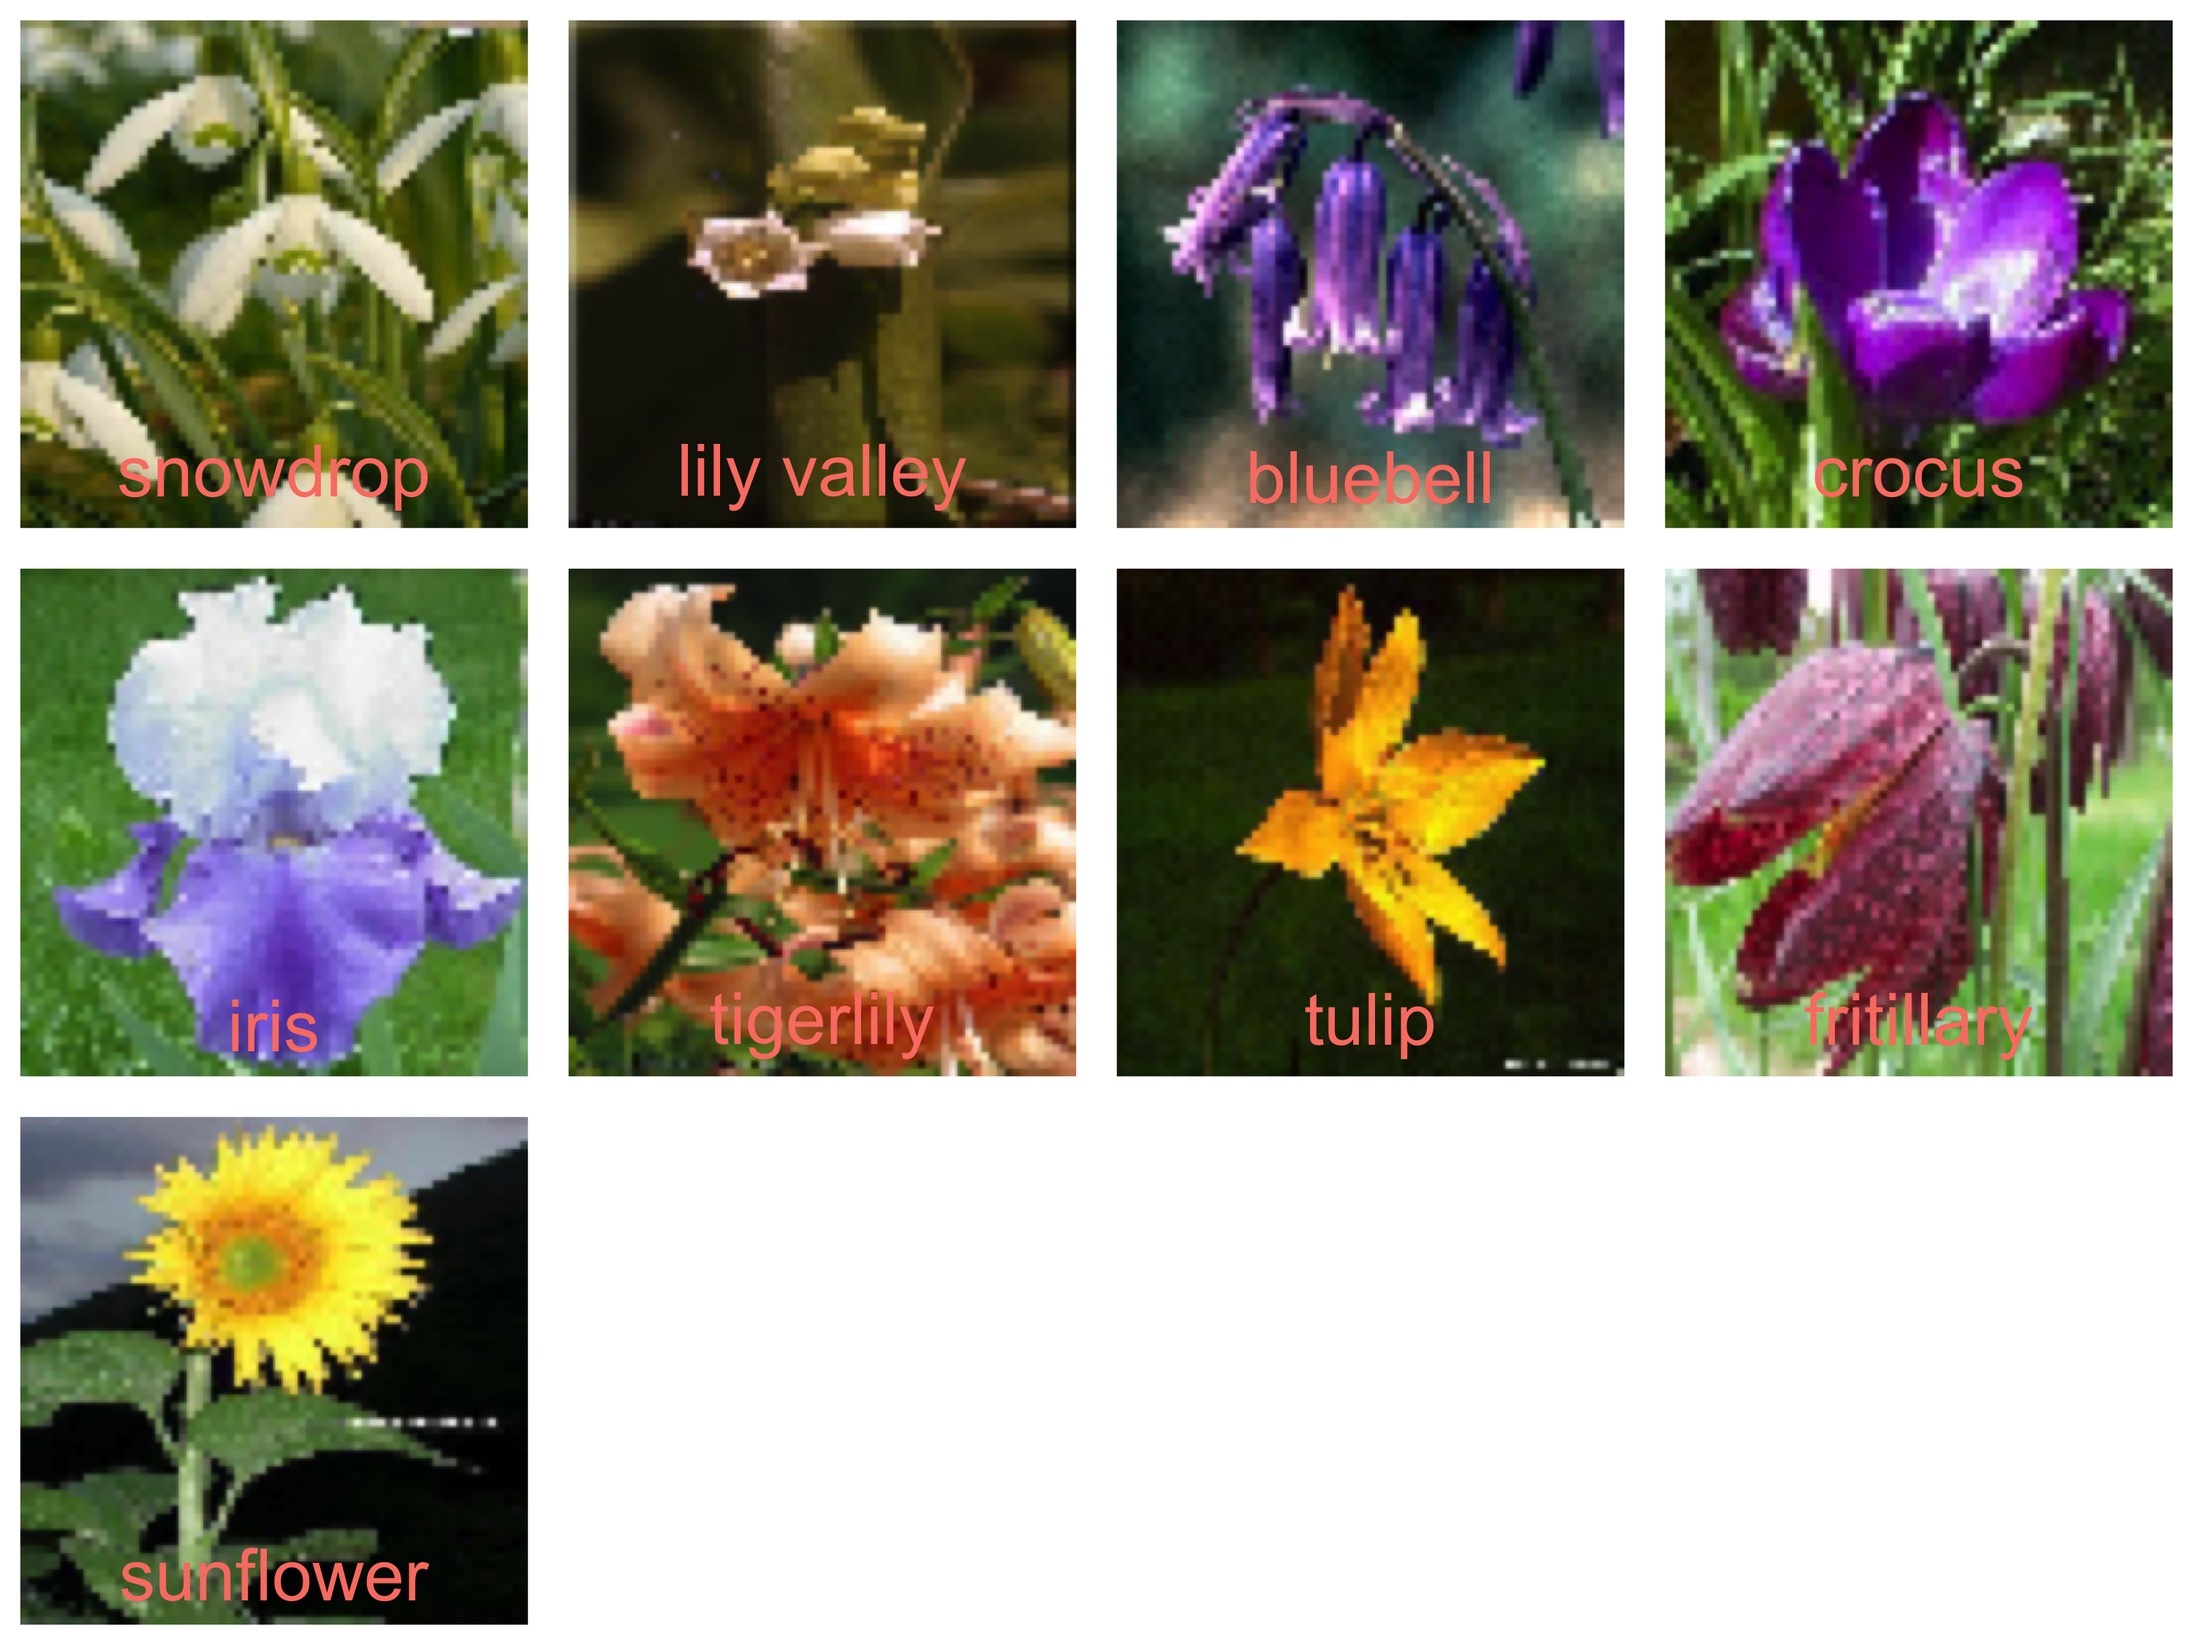
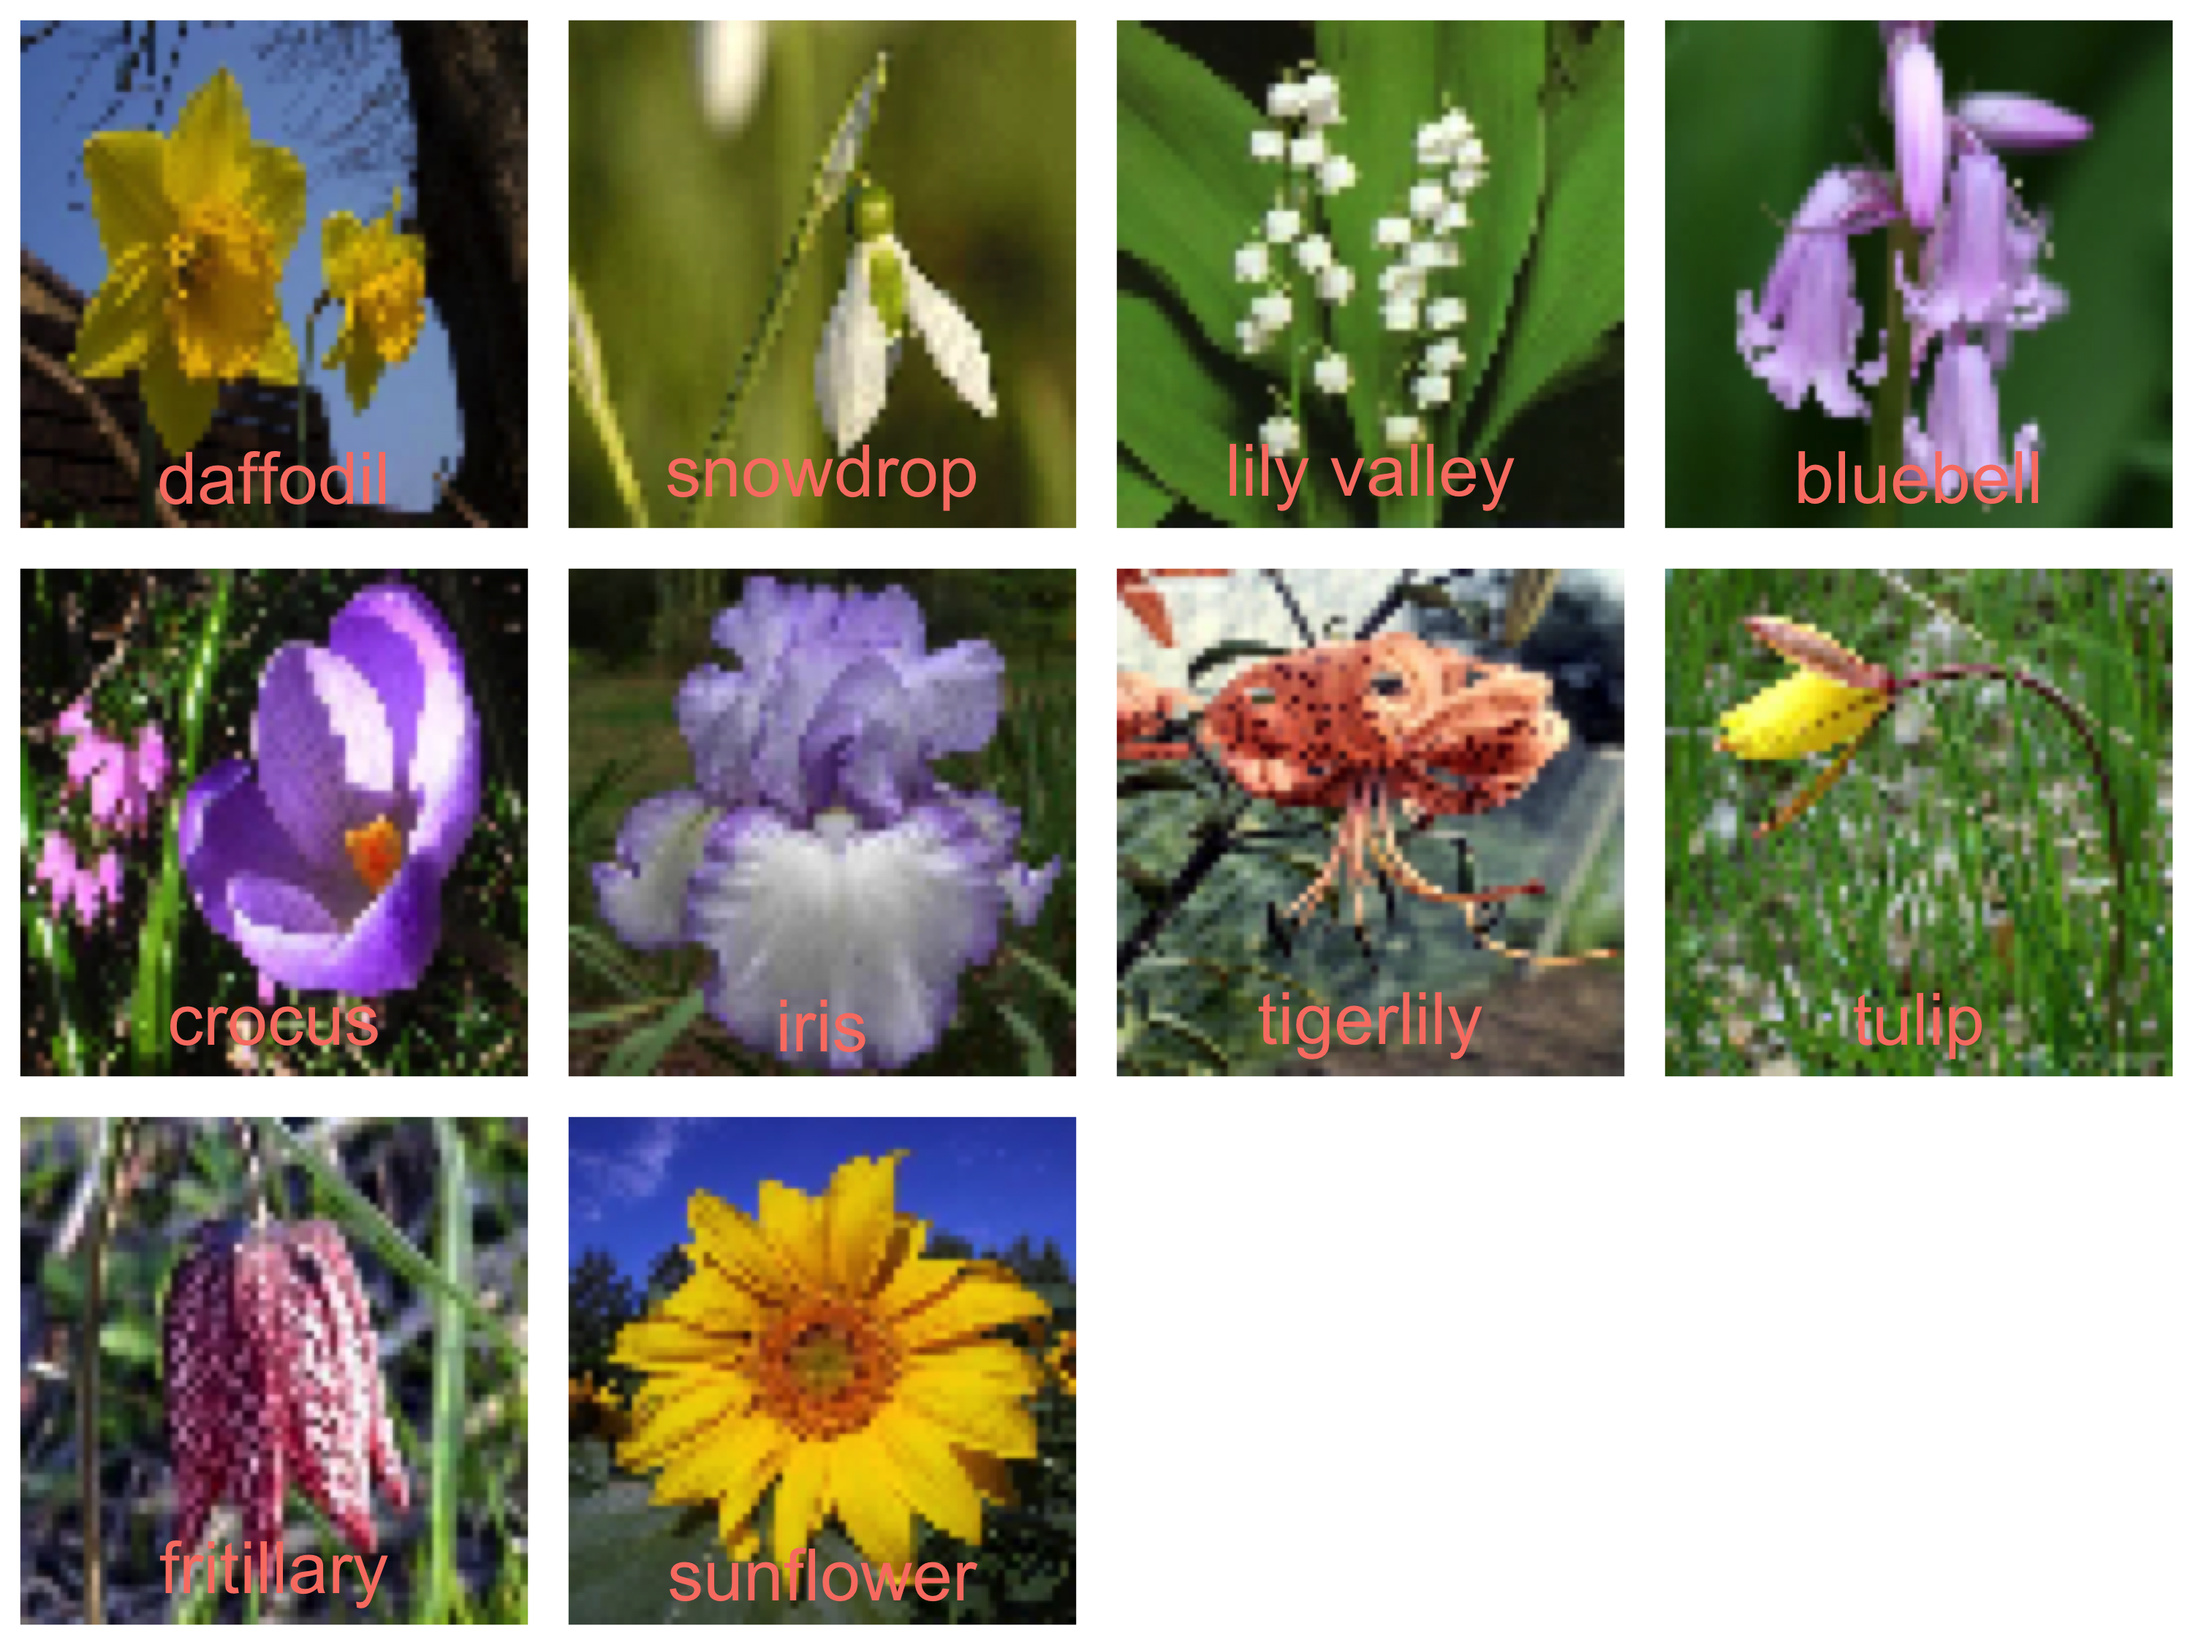
fix labels

diff --git a/_posts/2017-10-31-class18.md b/_posts/2017-10-31-class18.md
@@ -100,18 +100,12 @@ now look at a representative from all 10 classes of flowers:
 par(mar = c(0,0,0,0))
 par(mfrow = c(3, 4))
 set.seed(1)
-for (i in 1:10) {
+for (i in 0:9) {
   plot(0,0,xlim=c(0,1),ylim=c(0,1),axes= FALSE,type = "n")
-  i <- sample(which(flowers$class == i), 1)
-  rasterImage(x64[i,,,],0,0,1,1)
-  text(0.5, 0.1, flowers$class_name[i], cex = 3, col = "salmon")
+  j <- sample(which(flowers$class == i), 1)
+  rasterImage(x64[j,,,],0,0,1,1)
+  text(0.5, 0.1, flowers$class_name[j], cex = 3, col = "salmon")
 }
-{% endhighlight %}
-
-
-
-{% highlight text %}
-## Error in sample.int(length(x), size, replace, prob): invalid first argument
 {% endhighlight %}
 
 <img src="../assets/2017-10-31-class18/unnamed-chunk-4-1.png" title="plot of chunk unnamed-chunk-4" alt="plot of chunk unnamed-chunk-4" width="100%" />
@@ -154,7 +148,7 @@ dim(beta[apply(beta != 0, 1, any),])
 
 
 {% highlight text %}
-## [1] 420  10
+## [1] 359  10
 {% endhighlight %}
 
 The resulting model, even at `lambda.1se`, has over 300
@@ -172,7 +166,7 @@ tapply(pred == y, flowers$train_id, mean)
 
 {% highlight text %}
 ##  train  valid 
-## 0.9675 0.3600
+## 0.9325 0.3600
 {% endhighlight %}
 
 There are ten classes here, so a 36% classification rate is
@@ -353,59 +347,59 @@ as.matrix(beta)
 
 {% highlight text %}
 ##                  daffodil      snowdrop   lily valley      bluebell
-## (intercept)  0.2796331244 -5.816809e-02  1.1316920738  0.2140023805
-## #000000      0.0000000000  2.937234e-04  0.0001593203 -0.0001354286
-## #333333      0.0012692159  6.052404e-05 -0.0013234196 -0.0013497907
-## #666666      0.0000000000  0.000000e+00  0.0003042887  0.0000000000
-## #999999      0.0000000000  1.064322e-03  0.0000000000  0.0000000000
-## #CCCCCC     -0.0023649339  1.174579e-03  0.0000000000  0.0000000000
-## #FFFFFF     -0.0015795493  1.490721e-03  0.0000000000  0.0000000000
-## #FF0000      0.0000000000  0.000000e+00  0.0000000000  0.0000000000
-## #FF9900      0.0006601070  0.000000e+00 -0.0014104745 -0.0006043152
-## #CCFF00      0.0000000000  0.000000e+00  0.0000000000  0.0000000000
-## #33FF00     -0.0001201626 -3.588591e-04  0.0003663994  0.0000000000
-## #00FF66      0.0000000000  0.000000e+00  0.0000000000  0.0001616675
-## #00FFFF      0.0004796535  5.279409e-04  0.0007403431  0.0000000000
-## #0066FF      0.0001633432  0.000000e+00 -0.0010882711  0.0000000000
-## #3300FF      0.0000000000  0.000000e+00  0.0000000000  0.0034480163
-## #CC00FF      0.0000000000  0.000000e+00  0.0000000000  0.0022829739
-## #FF0099      0.0000000000  0.000000e+00  0.0000000000  0.0000000000
+## (intercept)  1.770461e-01 -1.489402e-02  1.119792e+00  0.2156050038
+## #000000      0.000000e+00  2.393722e-04  9.244839e-05 -0.0001356352
+## #333333      1.292036e-03  3.897117e-05 -8.897221e-04 -0.0009465659
+## #666666      0.000000e+00  0.000000e+00  1.657749e-04  0.0000000000
+## #999999      0.000000e+00  1.087899e-03  0.000000e+00  0.0000000000
+## #CCCCCC     -1.788616e-03  1.068943e-03  0.000000e+00  0.0000000000
+## #FFFFFF     -1.343429e-03  1.447499e-03  0.000000e+00  0.0000000000
+## #FF0000      0.000000e+00  0.000000e+00  0.000000e+00  0.0000000000
+## #FF9900      6.590324e-04  0.000000e+00 -1.317518e-03 -0.0005517535
+## #CCFF00      0.000000e+00  0.000000e+00  0.000000e+00  0.0000000000
+## #33FF00     -3.320615e-05 -2.903422e-04  3.651323e-04  0.0000000000
+## #00FF66      0.000000e+00  0.000000e+00  0.000000e+00  0.0001266336
+## #00FFFF      2.898429e-04  3.269193e-04  4.960677e-04  0.0000000000
+## #0066FF      1.597266e-04  0.000000e+00 -7.731947e-04  0.0000000000
+## #3300FF      0.000000e+00  0.000000e+00  0.000000e+00  0.0031461614
+## #CC00FF      0.000000e+00  0.000000e+00  0.000000e+00  0.0020355444
+## #FF0099      0.000000e+00  0.000000e+00  0.000000e+00  0.0000000000
 ##                    crocus          iris     tigerlily         tulip
-## (intercept)  2.534323e-01  0.1225246511 -0.2400797714  1.227285e+00
-## #000000      6.919519e-05 -0.0003478280  0.0000000000  2.724942e-04
-## #333333      1.950466e-04 -0.0046562081  0.0000000000  0.000000e+00
-## #666666      0.000000e+00 -0.0003495291  0.0000000000  8.643019e-05
-## #999999      8.458367e-04 -0.0003166433  0.0000000000  0.000000e+00
-## #CCCCCC      2.984717e-04  0.0017589213  0.0000000000 -5.265113e-03
-## #FFFFFF      8.821620e-04 -0.0002133868  0.0000000000 -1.979119e-03
-## #FF0000      0.000000e+00  0.0014026249  0.0034640029  0.000000e+00
-## #FF9900      0.000000e+00  0.0000000000  0.0000000000  3.676649e-07
-## #CCFF00     -2.786730e-04  0.0002369043  0.0000000000  0.000000e+00
-## #33FF00     -5.573924e-04  0.0000000000  0.0000000000  0.000000e+00
-## #00FF66     -1.364195e-03  0.0000000000  0.0000000000  0.000000e+00
-## #00FFFF     -3.298905e-04  0.0000000000  0.0000000000 -8.335655e-04
-## #0066FF     -4.547219e-04 -0.0001783404  0.0004213845 -6.850967e-04
-## #3300FF      2.434640e-03  0.0025778216  0.0000000000  0.000000e+00
-## #CC00FF      2.967764e-03  0.0015773924  0.0000000000  0.000000e+00
-## #FF0099      0.000000e+00  0.0000000000  0.0000000000  0.000000e+00
+## (intercept)  2.056405e-01  1.424085e-01 -0.2184719713  1.1743047065
+## #000000      3.070082e-05 -3.567885e-04  0.0000000000  0.0002189562
+## #333333      2.607157e-04 -3.664088e-03  0.0000000000  0.0000000000
+## #666666      0.000000e+00 -3.545157e-04  0.0000000000  0.0000000000
+## #999999      9.013507e-04 -8.905244e-05  0.0000000000  0.0000000000
+## #CCCCCC      1.965885e-04  1.602054e-03  0.0000000000 -0.0042881467
+## #FFFFFF      7.882126e-04  0.000000e+00  0.0000000000 -0.0017858055
+## #FF0000      0.000000e+00  1.090692e-03  0.0032937491  0.0000000000
+## #FF9900      0.000000e+00  0.000000e+00  0.0000000000  0.0000000000
+## #CCFF00     -2.136064e-04  2.265112e-04  0.0000000000  0.0000000000
+## #33FF00     -4.583371e-04  0.000000e+00  0.0000000000  0.0000000000
+## #00FF66     -1.076706e-03  0.000000e+00  0.0000000000  0.0000000000
+## #00FFFF     -2.047303e-04  0.000000e+00  0.0000000000 -0.0007464020
+## #0066FF     -2.904192e-04 -7.562564e-05  0.0004041505 -0.0005402705
+## #3300FF      2.140144e-03  2.184012e-03  0.0000000000  0.0000000000
+## #CC00FF      2.745270e-03  1.326558e-03  0.0000000000  0.0000000000
+## #FF0099      0.000000e+00  0.000000e+00  0.0000000000  0.0000000000
 ##               fritillary     sunflower
-## (intercept) -1.510376508 -1.4199450355
+## (intercept) -1.398503900 -1.4029265754
 ## #000000      0.000000000  0.0000000000
-## #333333      0.000000000 -0.0007800077
+## #333333      0.000000000 -0.0005368208
 ## #666666      0.000000000  0.0000000000
 ## #999999      0.000000000  0.0000000000
-## #CCCCCC      0.000000000 -0.0009328323
+## #CCCCCC      0.000000000 -0.0004132294
 ## #FFFFFF      0.000000000  0.0000000000
-## #FF0000      0.002638049  0.0000000000
-## #FF9900      0.000000000  0.0016999672
+## #FF0000      0.002407056  0.0000000000
+## #FF9900      0.000000000  0.0016435783
 ## #CCFF00      0.000000000  0.0000000000
 ## #33FF00      0.000000000  0.0000000000
 ## #00FF66      0.000000000  0.0000000000
-## #00FFFF      0.000000000  0.0014466807
-## #0066FF      0.000000000  0.0007624976
+## #00FFFF      0.000000000  0.0011926989
+## #0066FF      0.000000000  0.0007580761
 ## #3300FF      0.000000000  0.0000000000
 ## #CC00FF      0.000000000  0.0000000000
-## #FF0099      0.009700448  0.0000000000
+## #FF0099      0.009268888  0.0000000000
 {% endhighlight %}
 
 We see that some expected patterns here. Snowdrops have a large
@@ -428,7 +422,7 @@ tapply(pred == y, flowers$train_id, mean)
 
 {% highlight text %}
 ##  train  valid 
-## 0.5575 0.4100
+## 0.5525 0.4100
 {% endhighlight %}
 
 The reason for this that the first elastic net likely
@@ -497,7 +491,7 @@ tapply(pred == y, flowers$train_id, mean)
 
 {% highlight text %}
 ##  train  valid 
-## 0.5925 0.4300
+## 0.6075 0.4300
 {% endhighlight %}
 
 We can create an interesting visualization of these values by
@@ -673,7 +667,7 @@ tapply(pred == y, flowers$train_id, mean)
 
 {% highlight text %}
 ## train valid 
-## 0.680 0.475
+## 0.655 0.470
 {% endhighlight %}
 
 A confusion matrix shows us that only a few flowers are still
